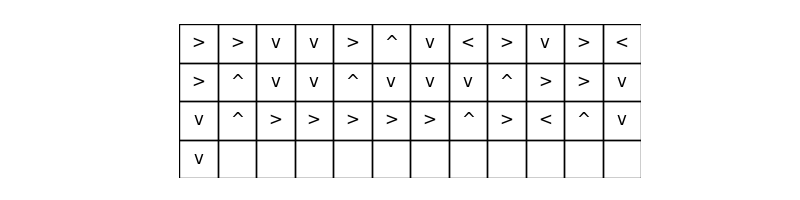
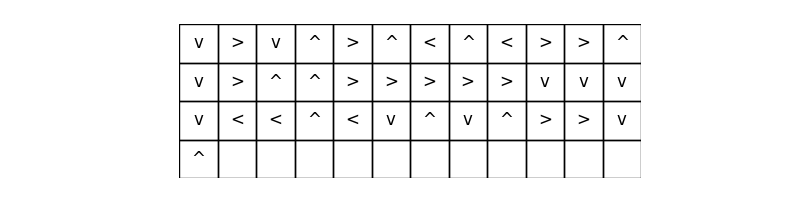
plot more mc with original reward

diff --git a/model-free/monte-carlo/mc-active/active-mc.py b/model-free/monte-carlo/mc-active/active-mc.py
@@ -170,7 +170,7 @@ def main():
      ## discount factor
     gamma = 0.9
     ## initialize episodes
-    tot_epoch = 200000
+    tot_epoch = 1000000
     # e-greedy policy
     epsilon = 0.7
     # make the environment
@@ -198,7 +198,6 @@ def main():
 
             new_observation, reward, terminated, truncated, info = env.step(action)
             #Append the visit in the episode list
-            if new_observation == 47: reward = 1200
             episode_list.append((observation, action, reward))
             observation = new_observation
             if terminated or truncated: break
@@ -211,9 +210,7 @@ def main():
         # graph state action values.
         if epoch % (tot_epoch / 10) == 0:
             ## minimize state action values of terminal states
-            # for i in range(37, 47):
-            #     average_state_action_return[:, i] = [np.amin(average_state_action_return) * 10 for _ in range(4)]
-
+            
             print("****** Plot state action values ******")
             plot_state_action(average_state_action_return, action_len, epoch)
             print("****** Plot policy ******")

diff --git a/model-free/monte-carlo/mc-active/mc-active.md b/model-free/monte-carlo/mc-active/mc-active.md
@@ -1,0 +1,9 @@
+## Monte-carlo solution
+
+The monte-carlo solution is proving to be useful in solving the cliff-walking problem.
+
+As we can see in the q-value heatmap, the q-values begin to converge early on.
+
+Unlike other methods that I've had to catalyze convergence with a bigger reward, using q-values ensures that we get a converging policy.
+
+Even though all terminal states have a value of 0 (which is high), the q-value algorithm is motivated to find a good early on (at about 100000) episodes.
